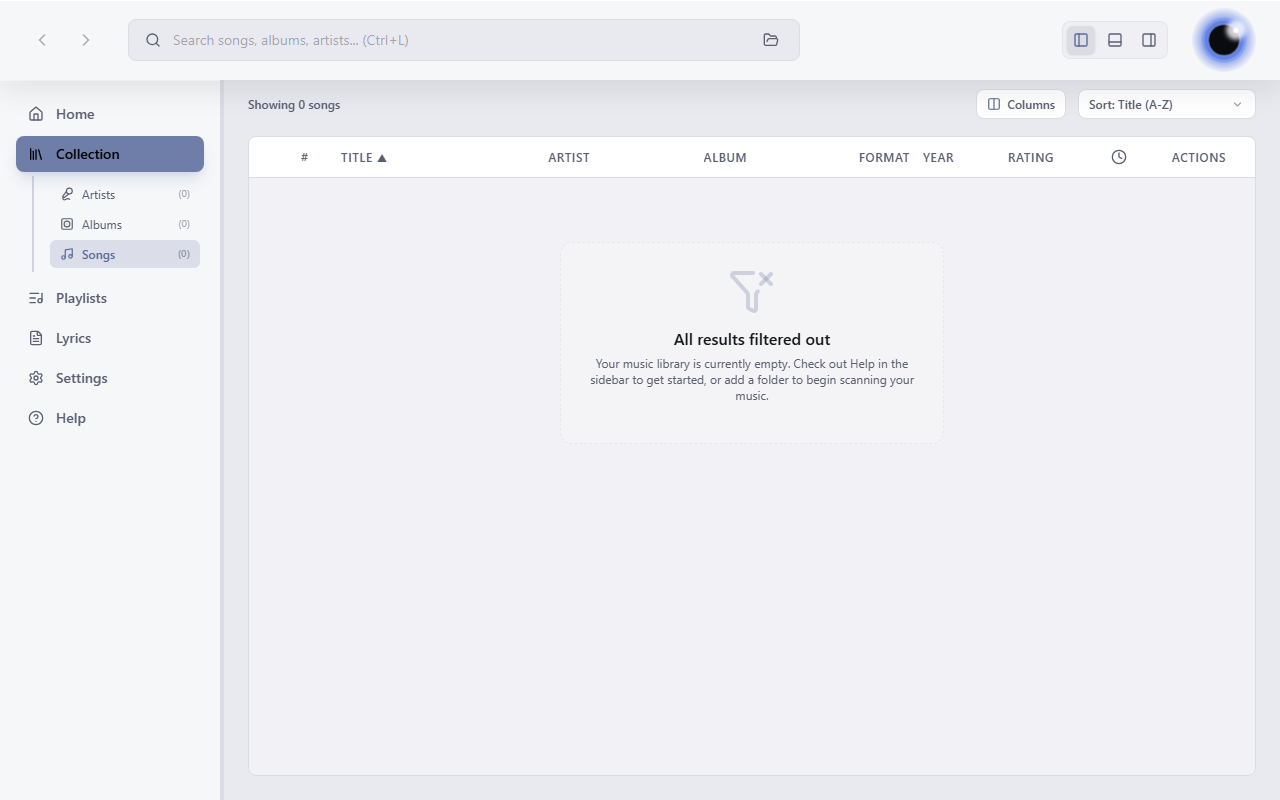
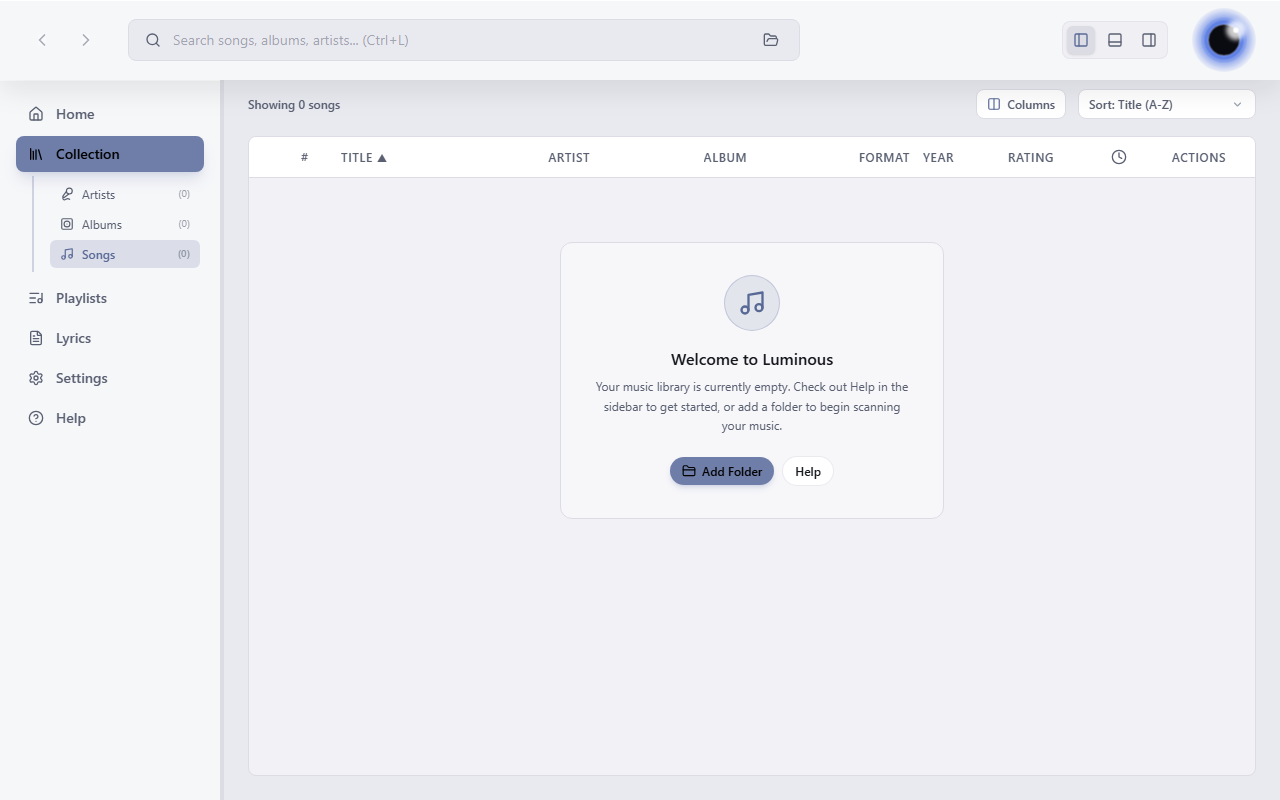
fix: give the empty-library state its own welcome screen
Reusing the "All results filtered out" filter-empty-results treatment for
a library with zero songs read like an error, not an invitation. Splits
the two cases: an active search with no matches keeps the existing
FilterX/reset-filters UI, while a genuinely empty library (no watched
folders) now gets a distinct welcome card — music icon, "Welcome to
Luminous" heading, and Add Folder / Help actions.

Adds collectionStore.addDirectoryDialog() (mirrors the openFileDialog
pattern from playerStore) so both FoldersView and the new welcome card
share the same folder-picker logic instead of duplicating it.

Changed region(s): [[0.4688, 0.3438, 0.7188, 0.5312], [0.5, 0.5625, 0.625, 0.625]]

diff --git a/src/lib/components/CollectionView.svelte b/src/lib/components/CollectionView.svelte
@@ -562,24 +562,39 @@
         </div>
 
         <div class="flex-1 min-h-0 relative">
-          {#if filteredSongs.length === 0}
+          {#if filteredSongs.length === 0 && collectionStore.searchQuery}
             <div class="py-16 text-center">
               <div class="flex flex-col items-center justify-center max-w-sm mx-auto p-6 bg-brand-sidebar/20 rounded-xl border border-dashed border-brand-border/60 select-none">
                 <FilterX class="w-12 h-12 text-brand-accent-text/40 mb-3 animate-pulse" />
                 <h3 class="text-base font-semibold text-brand-text-primary mb-1">{i18n.t('collection.allFilteredOutTitle')}</h3>
                 <p class="text-xs text-brand-text-secondary mb-4">
-                  {#if collectionStore.searchQuery}
-                    {i18n.t('collection.noTracksMatchQuery')} <code class="bg-brand-sidebar px-1 py-0.5 rounded font-mono text-brand-accent-text">{collectionStore.searchQuery}</code>
-                  {:else}
-                    {i18n.t('collection.noSongsLibraryEmpty')}
-                  {/if}
+                  {i18n.t('collection.noTracksMatchQuery')} <code class="bg-brand-sidebar px-1 py-0.5 rounded font-mono text-brand-accent-text">{collectionStore.searchQuery}</code>
                 </p>
-                {#if collectionStore.searchQuery}
-                  <Button onclick={() => { collectionStore.searchQuery = ""; collectionStore.search(""); }} variant="primary" size="sm">
-                    <FilterX class="w-3.5 h-3.5" />
-                    {i18n.t('collection.resetSearchFilters')}
+                <Button onclick={() => { collectionStore.searchQuery = ""; collectionStore.search(""); }} variant="primary" size="sm">
+                  <FilterX class="w-3.5 h-3.5" />
+                  {i18n.t('collection.resetSearchFilters')}
+                </Button>
+              </div>
+            </div>
+          {:else if filteredSongs.length === 0}
+            <!-- Library has no songs at all yet (no watched folders) — a distinct
+                 welcome moment, not a "your search/filters found nothing" state. -->
+            <div class="py-16 text-center">
+              <div class="flex flex-col items-center justify-center max-w-sm mx-auto p-8 bg-brand-sidebar/40 rounded-xl border border-brand-border select-none">
+                <div class="w-14 h-14 rounded-full bg-brand-accent/15 border border-brand-accent/30 flex items-center justify-center mb-4">
+                  <Music class="w-7 h-7 text-brand-accent-text" />
+                </div>
+                <h3 class="text-base font-semibold text-brand-text-primary mb-1.5">{i18n.t('collection.welcomeTitle')}</h3>
+                <p class="text-xs text-brand-text-secondary mb-5 leading-relaxed">{i18n.t('collection.noSongsLibraryEmpty')}</p>
+                <div class="flex items-center gap-2">
+                  <Button onclick={() => collectionStore.addDirectoryDialog()} variant="primary" size="sm">
+                    <FolderClosed class="w-3.5 h-3.5" />
+                    {i18n.t('settings.addFolder')}
                   </Button>
-                {/if}
+                  <Button onclick={() => { collectionStore.activeTab = 'help'; }} variant="secondary" size="sm">
+                    {i18n.t('sidebar.help')}
+                  </Button>
+                </div>
               </div>
             </div>
           {:else}

diff --git a/src/lib/components/FoldersView.svelte b/src/lib/components/FoldersView.svelte
@@ -3,7 +3,6 @@
   import { themeStore, PREDEFINED_THEMES, LUMINOUS_DARK_COLORS, LUMINOUS_LIGHT_COLORS, type ThemeColors, type Theme } from "../stores/theme.svelte";
   import { playerStore } from "../stores/player.svelte";
   import { Folder, Plus, Trash2, Palette, Settings, Check, Wand2, RefreshCw, RotateCcw, Sparkles, Eraser, Clock, Activity, HardDrive, ExternalLink, Info, Shield, Sun, Moon, ArrowUp, Download } from "lucide-svelte";
-  import { open } from "@tauri-apps/plugin-dialog";
   import { i18n, type Locale } from "../stores/i18n.svelte";
   import { toastStore } from "../stores/toast.svelte";
   import { prefs, type RatingStyle } from "../stores/prefs.svelte";
@@ -127,22 +126,6 @@
       });
     }
   });
-
-  // Folders operations
-  async function handleAddDirectory() {
-    try {
-      const selected = await open({
-        directory: true,
-        multiple: false,
-        title: i18n.t('settings.selectMusicDirectory'),
-      });
-      if (selected && typeof selected === "string") {
-        await collectionStore.addDirectory(selected);
-      }
-    } catch (err) {
-      console.error("Failed to open directory dialog:", err);
-    }
-  }
 
   async function handleRemoveDirectory(path: string) {
     if (confirm(i18n.t('settings.confirmRemoveFolder', { path }))) {
@@ -449,7 +432,7 @@
       <div class="bg-brand-sidebar border border-brand-border rounded-xl p-6 space-y-4">
         <div class="flex justify-between items-center">
           <h3 class="text-xs text-brand-text-secondary font-bold tracking-wider uppercase">{i18n.t('settings.watchedFoldersTitle')}</h3>
-          <Button onclick={handleAddDirectory} variant="primary" size="sm">
+          <Button onclick={() => collectionStore.addDirectoryDialog()} variant="primary" size="sm">
             <Plus class="w-4 h-4" /> {i18n.t('settings.addFolder')}
           </Button>
         </div>

diff --git a/src/lib/stores/collection.svelte.ts b/src/lib/stores/collection.svelte.ts
@@ -1,5 +1,7 @@
 import { invoke } from "@tauri-apps/api/core";
 import { listen } from "@tauri-apps/api/event";
+import { open } from "@tauri-apps/plugin-dialog";
+import { i18n } from "./i18n.svelte";
 import type {
   Song,
   MusicDirectory,
@@ -500,6 +502,21 @@ class CollectionStore {
   async addDirectory(path: string) {
     await invoke("add_directory", { path });
     await this.refreshDirectories();
+  }
+
+  async addDirectoryDialog() {
+    try {
+      const selected = await open({
+        directory: true,
+        multiple: false,
+        title: i18n.t('settings.selectMusicDirectory'),
+      });
+      if (selected && typeof selected === "string") {
+        await this.addDirectory(selected);
+      }
+    } catch (err) {
+      console.error("Failed to open directory dialog:", err);
+    }
   }
 
   async removeDirectory(path: string) {

diff --git a/src/lib/locales/fr.ts b/src/lib/locales/fr.ts
@@ -69,6 +69,7 @@ export const fr = {
     showingOneArtist: "Affichage de 1 artiste",
     noSongsTitle: "Aucune chanson trouvée",
     noSongsSearchEmpty: "Nous n'avons trouvé aucune chanson correspondant à « {query} ». Essayez d'ajuster vos mots-clés.",
+    welcomeTitle: "Bienvenue dans Luminous",
     noSongsLibraryEmpty: "Votre bibliothèque musicale est actuellement vide. Consultez l'Aide dans la barre latérale pour commencer, ou ajoutez un dossier pour analyser votre musique.",
     clearSearchFilter: "Effacer le filtre de recherche",
     tableHeaderTrack: "#",

diff --git a/src/lib/locales/en.ts b/src/lib/locales/en.ts
@@ -69,6 +69,7 @@ export const en = {
     showingOneArtist: "Showing 1 artist",
     noSongsTitle: "No songs found",
     noSongsSearchEmpty: "We couldn't find any songs matching \"{query}\". Try adjusting your keywords.",
+    welcomeTitle: "Welcome to Luminous",
     noSongsLibraryEmpty: "Your music library is currently empty. Check out Help in the sidebar to get started, or add a folder to begin scanning your music.",
     clearSearchFilter: "Clear Search Filter",
     tableHeaderTrack: "#",
